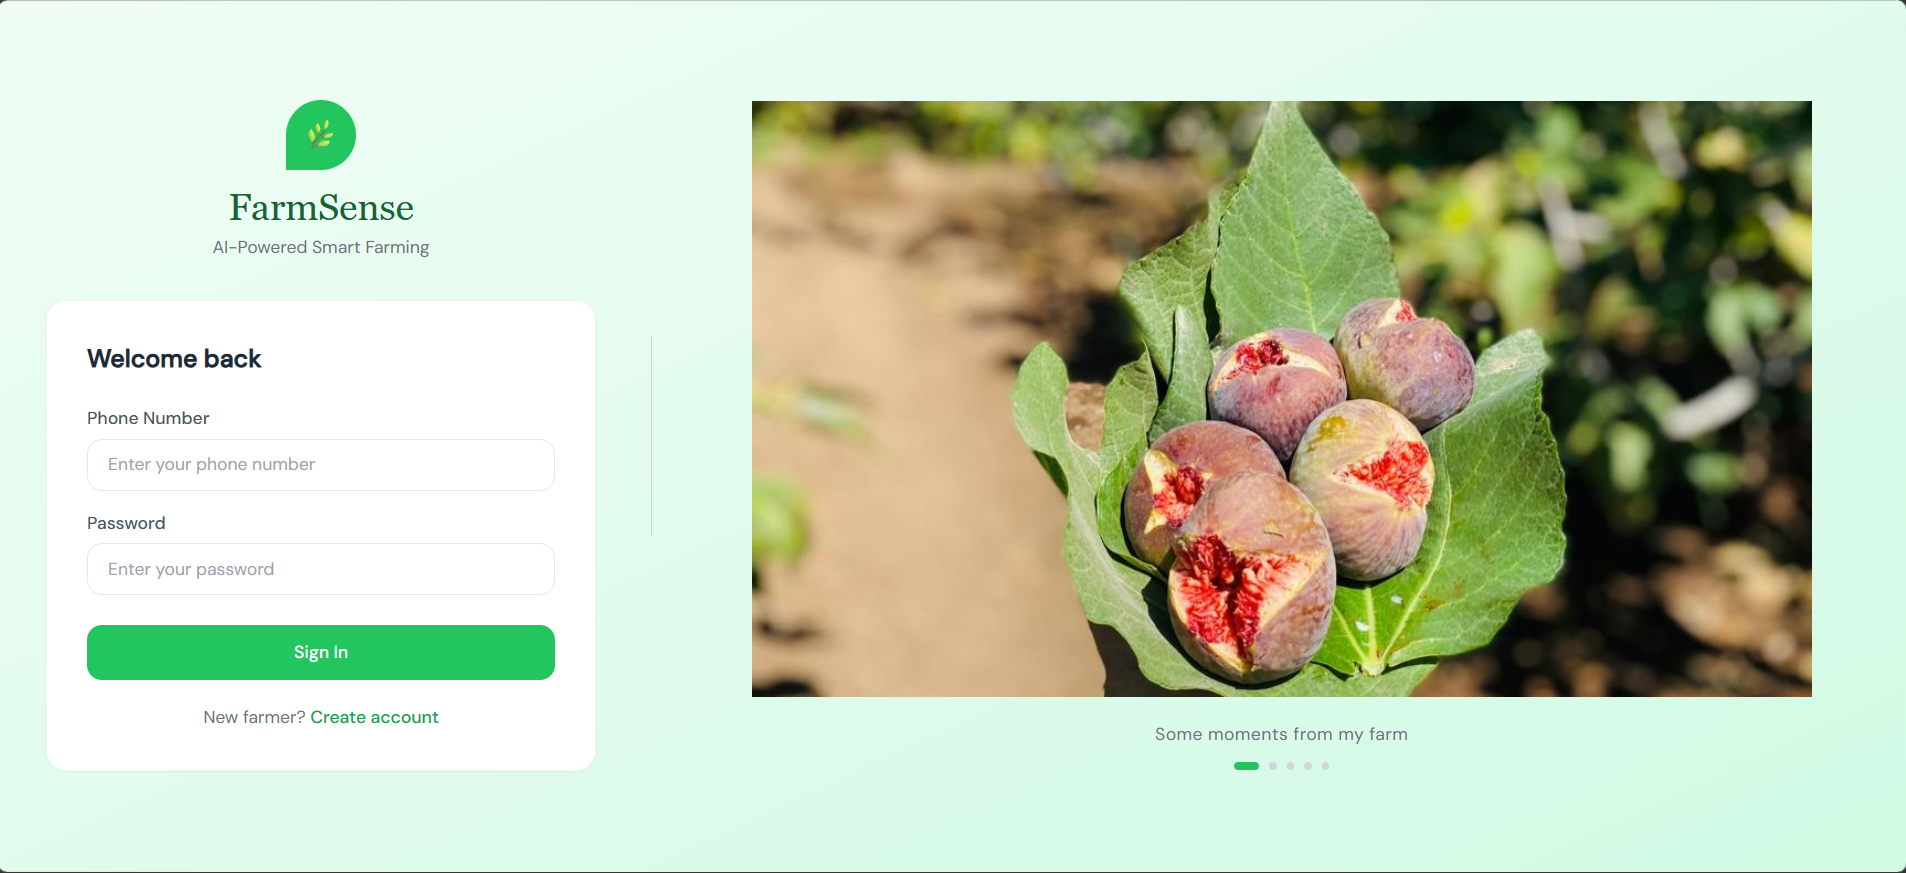
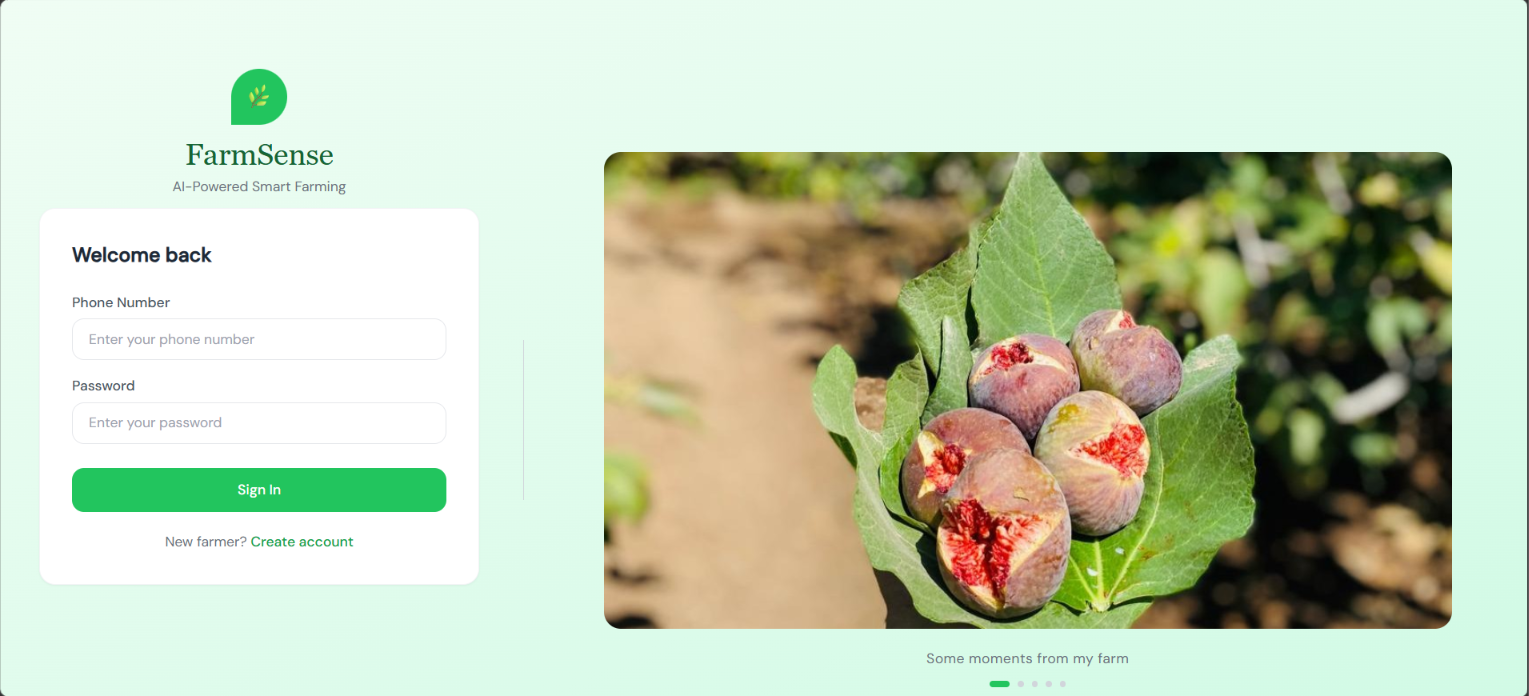
update: image of projects

diff --git a/index.html b/index.html
@@ -1299,7 +1299,7 @@
           <!-- SPPUStudyHUB -->
           <div class="project-card reveal d3">
             <div class="proj-img">
-              <img src="sppustudyhub.jpeg" alt="SPPUStudyHUB" />
+              <img src="sppustudyhub.png" alt="SPPUStudyHUB" />
               <div class="proj-overlay">
                 <a
                   href="https://www.sppustudyhub.in"
